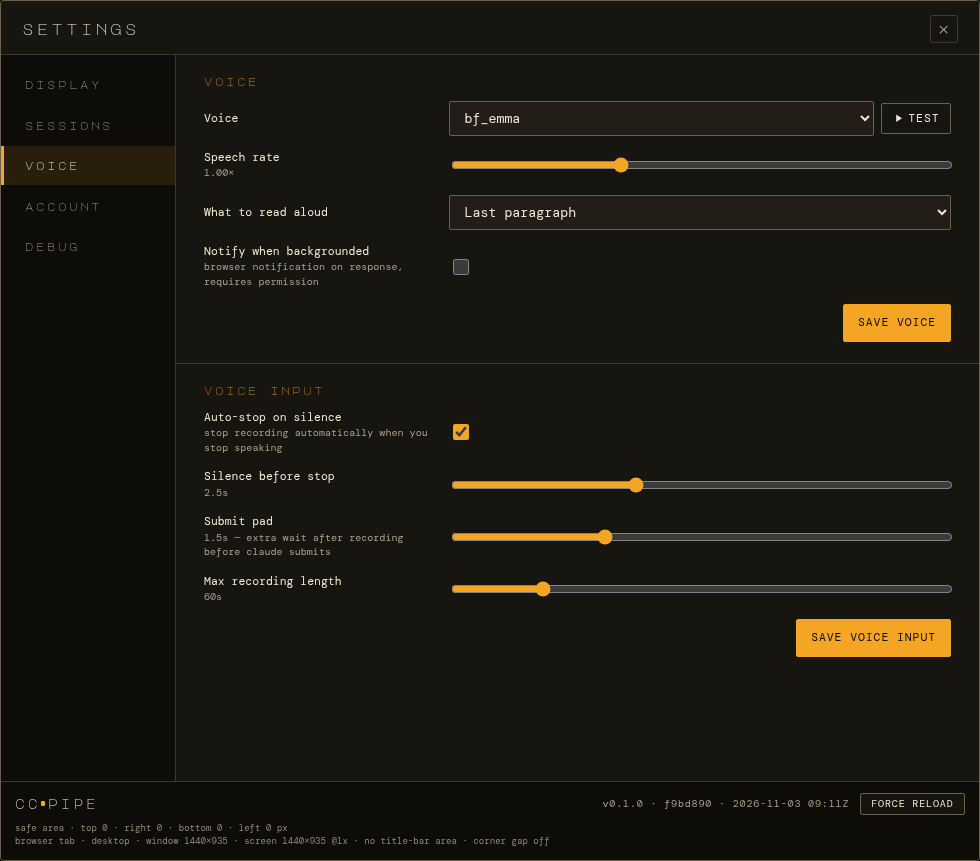
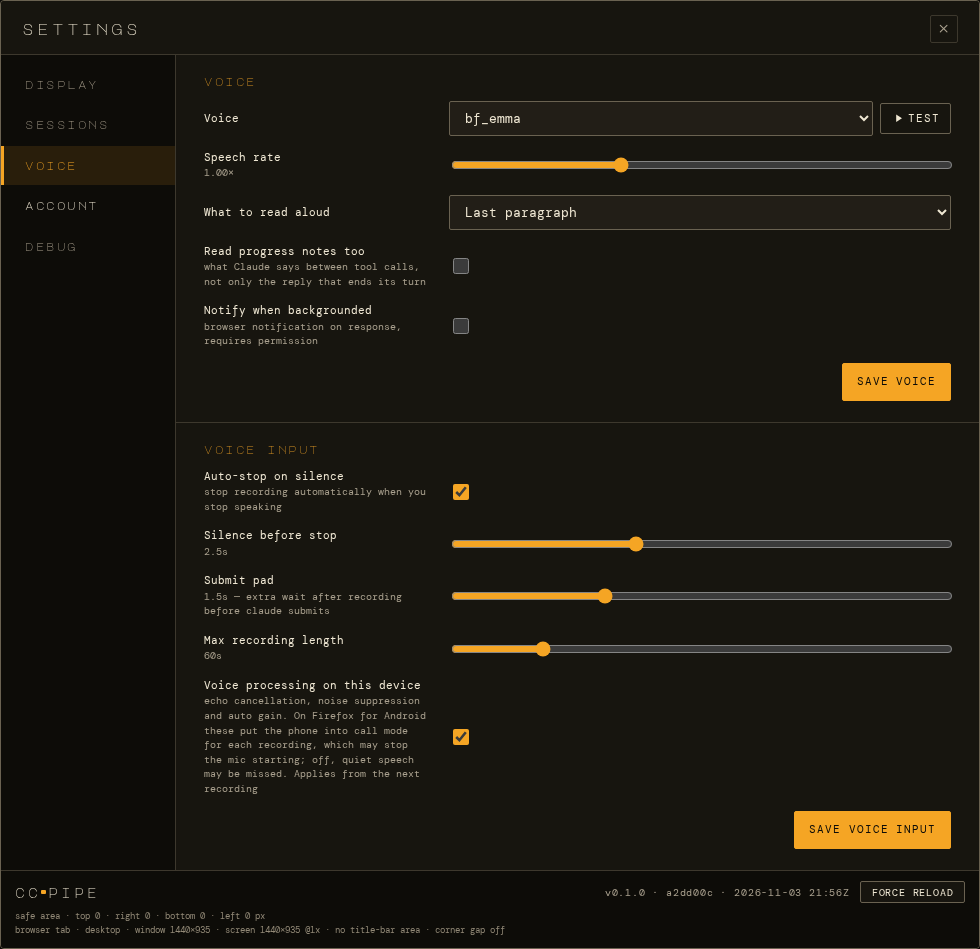
docs: voice settings screenshot with progress notes and voice processing
Re-shot from the demo backend (same window size and full-height crop as
before): Settings → Voice now has "Read progress notes too", and voice
input has the per-device voice-processing switch. The other screenshots
were re-shot this afternoon or show screens that haven't changed since.

diff --git a/README.md b/README.md
@@ -59,11 +59,11 @@ Desktop:
 <td align="center"><sub>Sessions — start at boot, idle stop</sub></td>
 </tr>
 <tr>
-<td align="center"><img src="docs/screenshots/Desktop-Voice-Settings.png" width="380" alt="Voice and voice-input settings"></td>
+<td align="center"><img src="docs/screenshots/Desktop-Voice-Settings.png" width="380" alt="Voice settings: voice, speed, what to read aloud, read progress notes too, background notification; voice input: auto-stop, timings and voice processing on this device"></td>
 <td align="center"><img src="docs/screenshots/Desktop-Account-Settings.png" width="380" alt="Account settings: change password or username, sign out, sign out everywhere, and two-factor setup"></td>
 </tr>
 <tr>
-<td align="center"><sub>Voice (TTS) + voice-input timings</sub></td>
+<td align="center"><sub>Voice (TTS): what to read aloud + voice input</sub></td>
 <td align="center"><sub>Account, sign out everywhere, two-factor (TOTP)</sub></td>
 </tr>
 </table>
